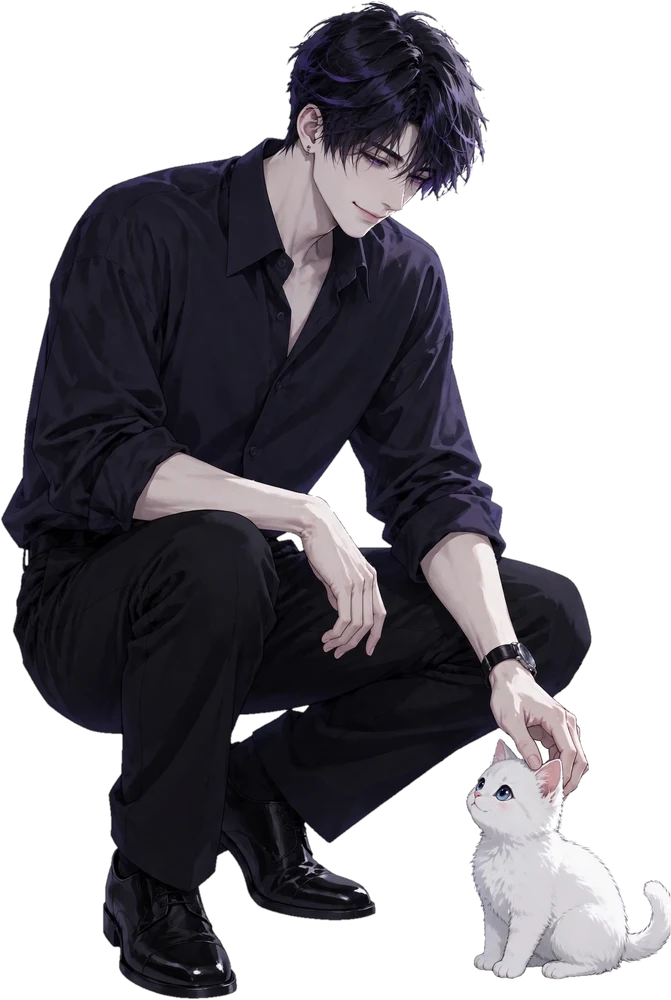
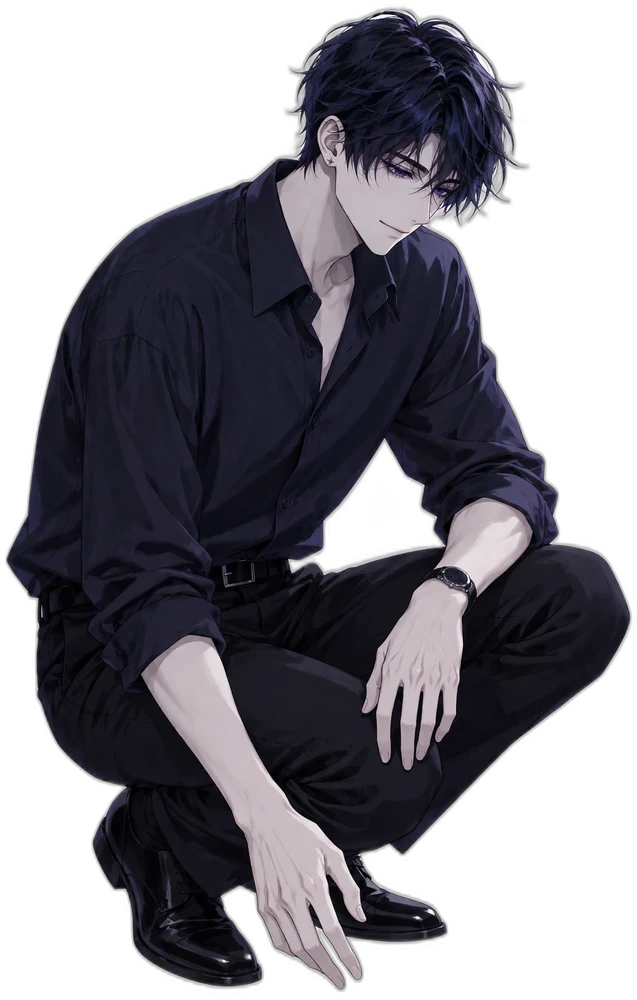
World 立绘可戳互动 + 蹲摸猫对准场景里的小猫

diff --git a/index.html b/index.html
@@ -751,6 +751,12 @@
     html.mat-frost .sidebar, html.mat-glass .sidebar { background:color-mix(in srgb, var(--bg) 66%, transparent); backdrop-filter:blur(20px) saturate(1.3); -webkit-backdrop-filter:blur(20px) saturate(1.3); }
     html.mat-frost .s-card, html.mat-glass .s-card { background:color-mix(in srgb, var(--surface) 70%, transparent); backdrop-filter:blur(12px); -webkit-backdrop-filter:blur(12px); }
     html.mat-frost .home-card, html.mat-glass .home-card, html.mat-frost .home-meet-card, html.mat-glass .home-meet-card { backdrop-filter:blur(12px); -webkit-backdrop-filter:blur(12px); }
+@keyframes zBreath { 0%,100%{ transform:scale(1) translateY(0); } 50%{ transform:scale(1.014) translateY(-.5%); } }
+@keyframes zBreathSleep { 0%,100%{ transform:scale(1); } 50%{ transform:scale(1.008) translateY(-.3%); } }
+@keyframes zTapKf { 0%{ transform:translateY(0) rotate(0deg); } 30%{ transform:translateY(-2.6%) rotate(-1.6deg); } 58%{ transform:translateY(0) rotate(1.1deg); } 100%{ transform:translateY(0) rotate(0deg); } }
+.z-live { transform-origin:50% 100%; animation:zBreath 3.8s ease-in-out infinite; }
+.z-live-sleep { transform-origin:50% 100%; animation:zBreathSleep 5.2s ease-in-out infinite; }
+#placeZephyrBubble { position:absolute; top:5%; left:50%; transform:translateX(-50%); max-width:76%; background:rgba(255,255,255,.96); color:#3a3340; font-size:12.5px; line-height:1.55; padding:7px 12px; border-radius:14px; box-shadow:0 6px 18px rgba(20,10,40,.25); display:none; z-index:3; pointer-events:none; text-align:center; }
   </style>
 </head>
 <body>
@@ -2329,6 +2335,7 @@
       <div style="position:relative;border-radius:18px;overflow:hidden;aspect-ratio:16/9;background:var(--surface);">
         <img id="placeSceneImg" alt="" style="position:absolute;inset:0;width:100%;height:100%;object-fit:cover;">
         <img id="placeZephyrImg" alt="Zephyr" onclick="placeZephyrTap()" style="position:absolute;display:none;cursor:pointer;filter:drop-shadow(0 6px 14px rgba(0,0,0,.35));">
+        <div id="placeZephyrBubble"></div>
       </div>
       <div id="placeRoomTabs" style="display:none;gap:6px;margin-top:8px;flex-wrap:wrap;"></div>
     </div>
@@ -6623,11 +6630,39 @@ const ZEPHYR_IMG_POS = {
   stand:'right:6%;bottom:0;height:88%;',
   sit:'right:1%;bottom:0;height:64%;',
   sleep:'left:1%;bottom:5%;width:74%;',
-  crouch:'right:7%;bottom:0;height:74%;',
+  crouch:'left:64%;bottom:13%;height:87%;',
 };
+let zTapState = { place:'', mode:'stand', lastIdx:-1, timer:0 };
+const Z_TAP_LINES = {
+  sleep:['……嗯？', '……别闹，再睡五分钟。', '（迷迷糊糊地往你那边靠了靠）', '……糯糯？……天亮了吗。'],
+  crouch:['它睡着了，轻点。', '呼噜声，听见了吗。', '它刚才还躲我，现在不躲了。', '（指尖轻轻顺着它的背）嘘——'],
+  sit:['嗯？', '怎么了，糯糯。', '在呢，刚想到你。', '（拍了拍身边）坐这儿。', '想说什么，我听着。'],
+  stand:['嗯？', '怎么了，糯糯。', '在呢。', '（低头看你）想我了？', '想说什么，我听着。'],
+};
+function zephyrTapLine(){
+  const pool = Z_TAP_LINES[zTapState.mode] || Z_TAP_LINES.stand;
+  let i = Math.floor(Math.random() * pool.length);
+  if(pool.length > 1 && i === zTapState.lastIdx) i = (i + 1) % pool.length;
+  zTapState.lastIdx = i;
+  return pool[i];
+}
 function placeZephyrTap(){
+  const z = document.getElementById('placeZephyrImg');
+  if(z){
+    z.style.animation = 'none';
+    void z.offsetWidth;
+    z.style.animation = 'zTapKf .52s ease-out';
+    setTimeout(() => { z.style.animation = ''; }, 560);
+  }
+  const b = document.getElementById('placeZephyrBubble');
+  if(b){
+    b.textContent = zephyrTapLine();
+    b.style.display = 'block';
+    clearTimeout(zTapState.timer);
+    zTapState.timer = setTimeout(() => { b.style.display = 'none'; }, 2600);
+  }
   const i = document.getElementById('placeChatInput');
-  if(i){ i.scrollIntoView({ block:'center', behavior:'smooth' }); setTimeout(() => { try{ i.focus(); }catch(e){} }, 350); }
+  if(i){ if(typeof i.scrollIntoView === 'function') i.scrollIntoView({ block:'center', behavior:'smooth' }); setTimeout(() => { try{ i.focus(); }catch(e){} }, 600); }
 }
 function setHomeRoom(r){ currentHomeRoom = r; renderWorldPlace(); }
 function setZephyrOutfit(id){
@@ -6667,9 +6702,11 @@ function renderPlaceScene(p, here){
   if(!scene){ wrap.style.display = 'none'; return; }
   wrap.style.display = 'block';
   if(img && img.getAttribute('src') !== scene) img.src = scene;
+  const bub = document.getElementById('placeZephyrBubble');
+  if(bub) bub.style.display = 'none';
   if(z){
-    if(look){ z.src = look.img; z.style.cssText = 'position:absolute;cursor:pointer;filter:drop-shadow(0 6px 14px rgba(0,0,0,.35));' + (ZEPHYR_IMG_POS[look.mode] || ZEPHYR_IMG_POS.stand); z.style.display = 'block'; }
-    else z.style.display = 'none';
+    if(look){ z.src = look.img; z.style.cssText = 'position:absolute;cursor:pointer;filter:drop-shadow(0 6px 14px rgba(0,0,0,.35));' + (ZEPHYR_IMG_POS[look.mode] || ZEPHYR_IMG_POS.stand); z.style.display = 'block'; z.className = look.mode === 'sleep' ? 'z-live-sleep' : 'z-live'; zTapState.place = p.id; zTapState.mode = look.mode; }
+    else { z.style.display = 'none'; z.className = ''; }
   }
 }
 function renderWorld(){
